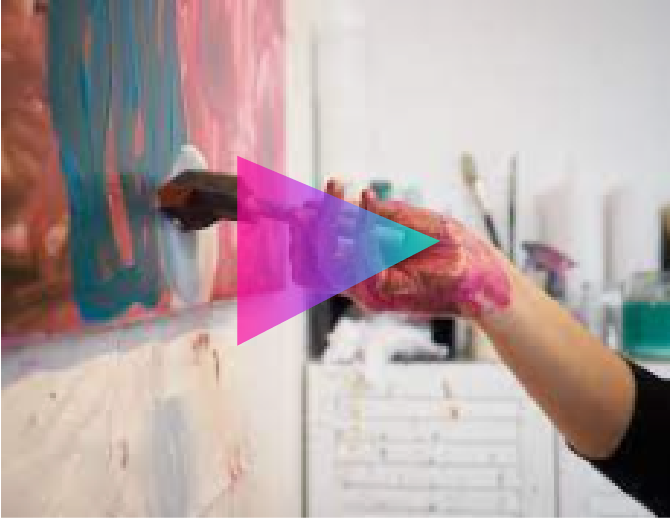
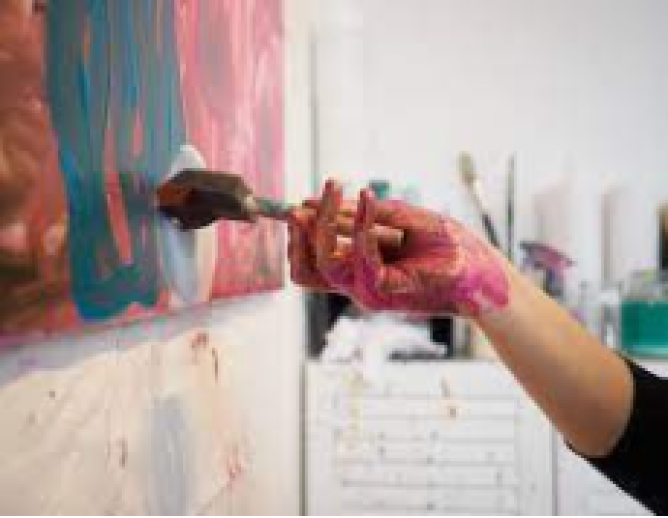
adding video template

diff --git a/components/gallery1.js b/components/gallery1.js
@@ -1,5 +1,7 @@
 import Head from 'next/head'
+import Image from 'next/image'
 import { useState, useEffect } from 'react';
+import ReactPlayer from 'react-player';
 
 export default function Gallery() {
   const [showModal, setShowModal] = useState(false);
@@ -42,14 +44,15 @@ export default function Gallery() {
 
       <main className="flex flex-col items-center w-full flex-1 px-18 pt-20 text-left">
         <section className="w-full">
-          <a href="#">
-            <span className="sr-only">Video Thumbnail</span>
-            <img
-              className="h-auto w-full"
-              src="/VideoFPO.png"
-              alt="Video Thumbnail"
-            />
-          </a>
+          <ReactPlayer
+            url="https://media.w3.org/2010/05/sintel/trailer_hd.mp4"
+            playing
+            controls="true"
+            width="100%"
+            playIcon={<Image src="/play-icon.svg" height={95} width={101} />}
+            light="/VideoFPO.png"
+          />
+
         </section>
         <section className="container mx-auto px-10 mt-5 mb-32">
           <h3 className="uppercase my-1 text-3xl tracking-wider">Her roots run deep</h3>
